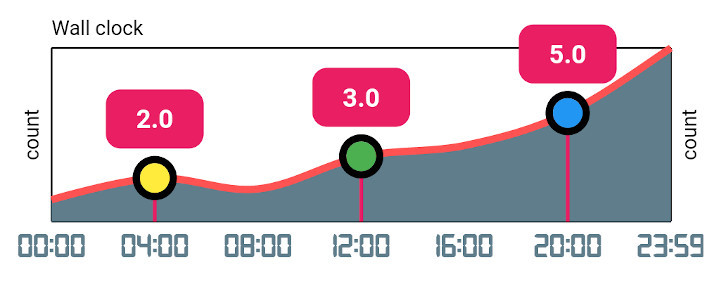
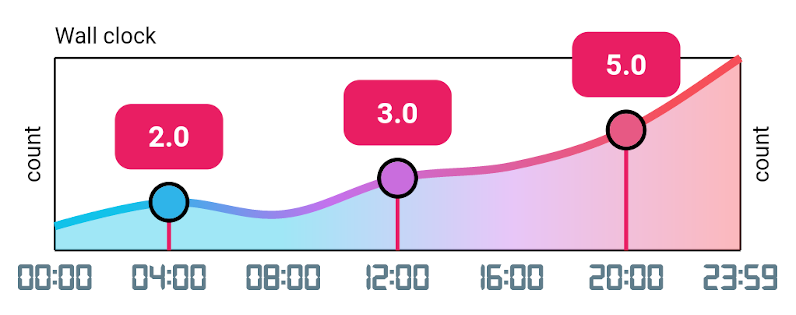
Updated line_chart_sample5.

diff --git a/example/lib/line_chart/samples/line_chart_sample5.dart b/example/lib/line_chart/samples/line_chart_sample5.dart
@@ -17,15 +17,29 @@ class LineChartSample5 extends StatelessWidget {
   Widget build(BuildContext context) {
     final lineBarsData = [
       LineChartBarData(
-        showingIndicators: showIndexes,
-        spots: allSpots,
-        isCurved: true,
-        barWidth: 4,
-        belowBarData: const BarAreaData(
-          show: true,
-        ),
-        dotData: const FlDotData(show: false),
-      ),
+          showingIndicators: showIndexes,
+          spots: allSpots,
+          isCurved: true,
+          barWidth: 4,
+          belowBarData: BarAreaData(
+            show: true,
+            colors: [
+              Color(0xff12c2e9).withOpacity(0.4),
+              Color(0xffc471ed).withOpacity(0.4),
+              Color(0xfff64f59).withOpacity(0.4),
+            ],
+          ),
+          dotData: FlDotData(show: false),
+          colors: [
+            Color(0xff12c2e9),
+            Color(0xffc471ed),
+            Color(0xfff64f59),
+          ],
+          colorStops: [
+            0.1,
+            0.4,
+            0.9
+          ]),
     ];
 
     final LineChartBarData tooltipsOnBar = lineBarsData[0];
@@ -55,18 +69,12 @@ class LineChartSample5 extends StatelessWidget {
                   FlDotData(
                     show: true,
                     dotSize: 8,
-                    strokeWidth: 4,
+                    strokeWidth: 2,
                     getStrokeColor: (spot, percent, barData) => Colors.black,
                     getDotColor: (spot, percent, barData) {
-                      switch(allSpots.indexOf(spot)) {
-                        case 1: return Colors.yellow;
-                        case 3: return Colors.green;
-                        case 5: return Colors.blue;
-                      }
-                      return Colors.pink;
+                      return lerpGradient(barData.colors, barData.colorStops, percent / 100);
                     },
-                  )
-                  ,
+                  ),
                 );
               }).toList();
             },
@@ -77,7 +85,7 @@ class LineChartSample5 extends StatelessWidget {
                 return lineBarsSpot.map((lineBarSpot) {
                   return LineTooltipItem(
                     lineBarSpot.y.toString(),
-                    const TextStyle(color: Colors.white, fontWeight: FontWeight.bold),
+                    TextStyle(color: Colors.white, fontWeight: FontWeight.bold),
                   );
                 }).toList();
               },
@@ -110,7 +118,7 @@ class LineChartSample5 extends StatelessWidget {
                   }
                   return '';
                 },
-                textStyle: const TextStyle(
+                textStyle: TextStyle(
                   fontWeight: FontWeight.bold,
                   color: Colors.blueGrey,
                   fontFamily: 'Digital',
@@ -131,4 +139,29 @@ class LineChartSample5 extends StatelessWidget {
       ),
     );
   }
+}
+
+/// Lerps between a [LinearGradient] colors, based on [t]
+Color lerpGradient(List<Color> colors, List<double> stops, double t) {
+  if (stops == null || stops.length != colors.length) {
+    stops = [];
+
+    /// provided gradientColorStops is invalid and we calculate it here
+    colors.asMap().forEach((index, color) {
+      final percent = 1.0 / colors.length;
+      stops.add(percent * (index + 1));
+    });
+  }
+
+  for (var s = 0; s < stops.length - 1; s++) {
+    final leftStop = stops[s], rightStop = stops[s + 1];
+    final leftColor = colors[s], rightColor = colors[s + 1];
+    if (t <= leftStop) {
+      return leftColor;
+    } else if (t < rightStop) {
+      final sectionT = (t - leftStop) / (rightStop - leftStop);
+      return Color.lerp(leftColor, rightColor, sectionT);
+    }
+  }
+  return colors.last;
 }
